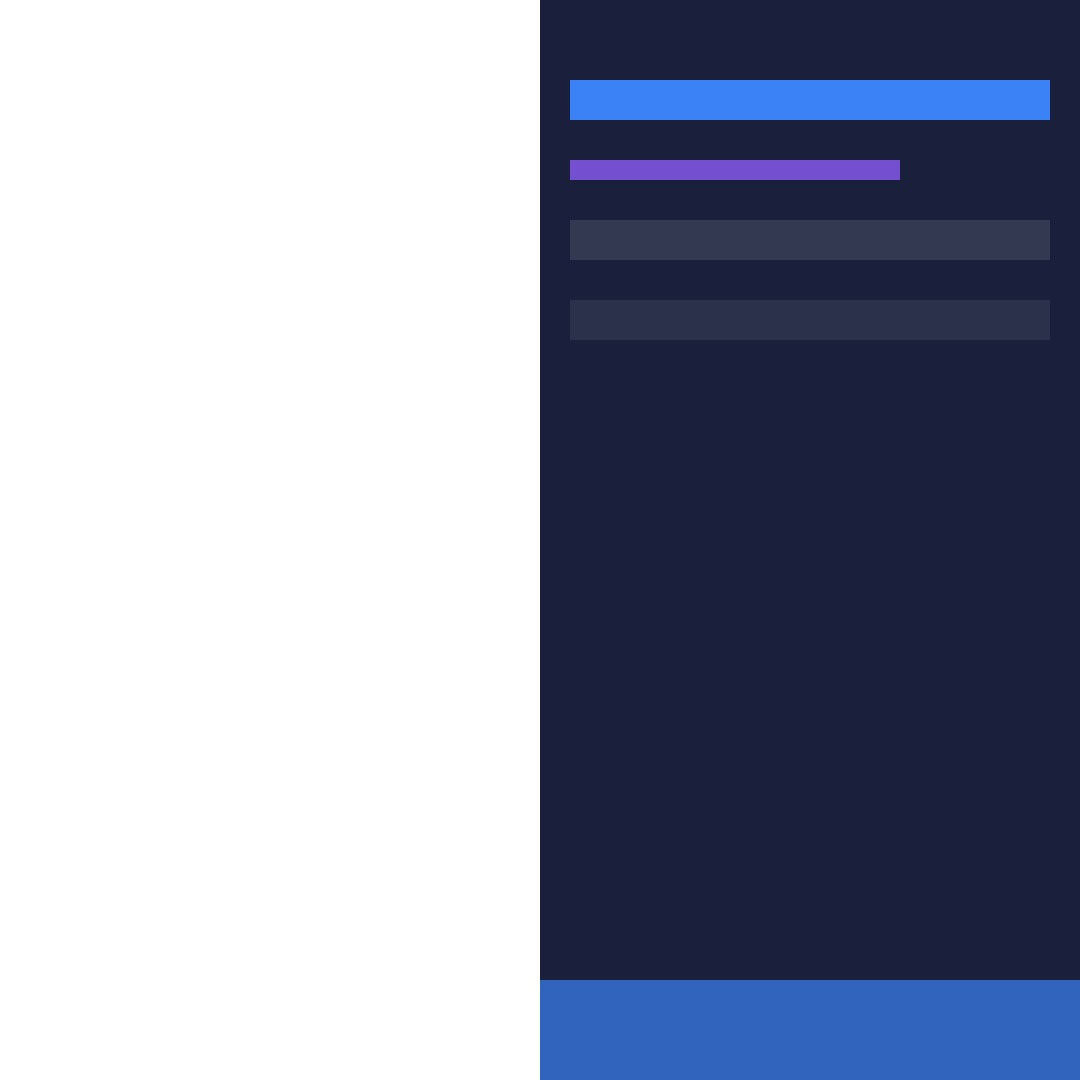
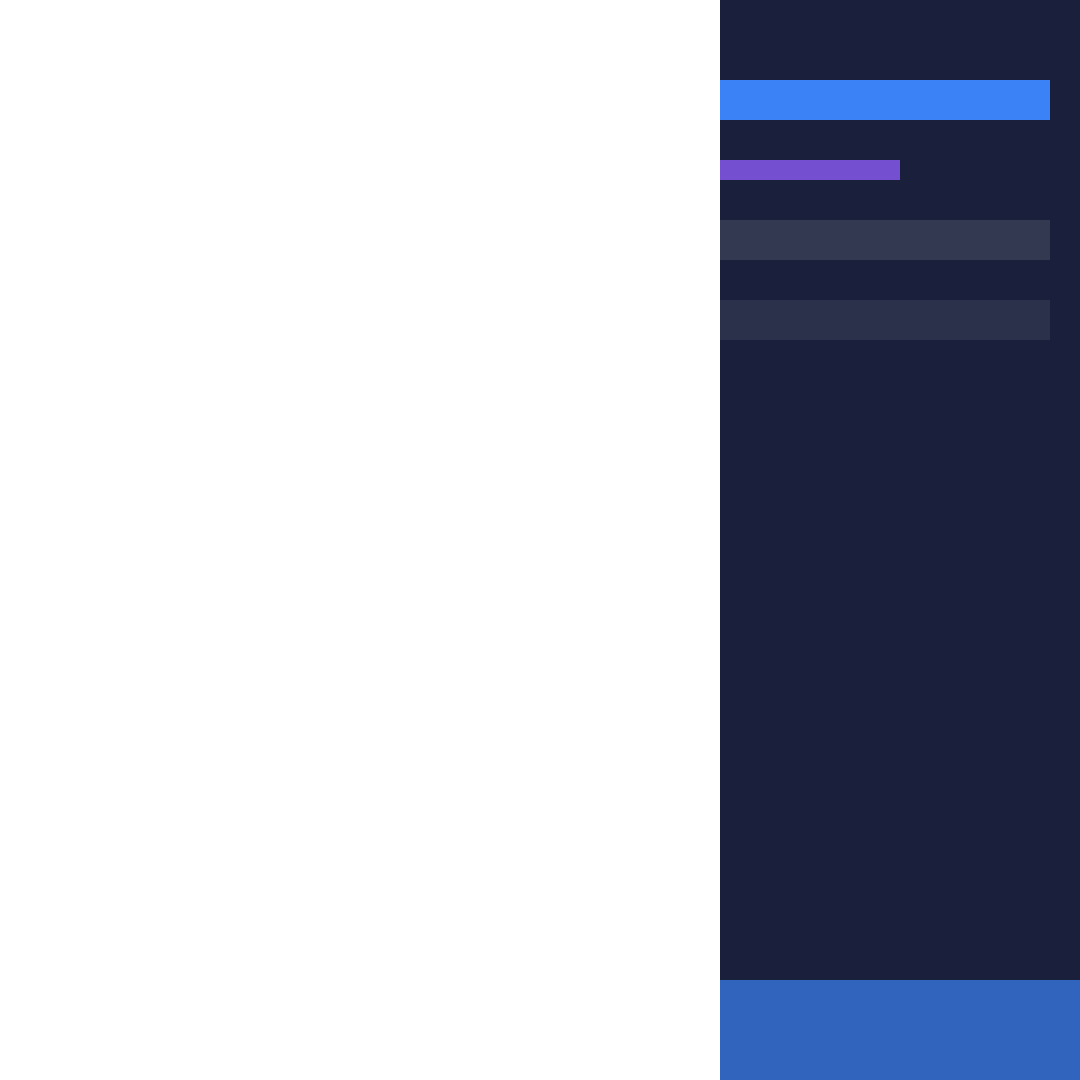
fix: 竖版视频套方版模板无缝填充
- 自动检测模板PNG透明区域边界，视频精确填充到透明区域
- 1:1模板视频区域调整为720×1080匹配实际视频尺寸(720×1080)
- 更新模板图片：透明区720px + 图案区360px = 1080px
- 移除1:1模板的过扫描(overscan)，改用精确缩放避免间隙
- 更新客户端和服务端默认视频区域参数

Changed region(s): [[0.4889, 0.0, 0.6722, 1.0]]

diff --git a/server/src/services/ffmpeg.service.js b/server/src/services/ffmpeg.service.js
@@ -36,6 +36,20 @@ function normalizeTemplateGeometry(template) {
         rawH = 1080;
     }
 
+    // 修复 1:1 模板视频区域：确保视频区域与 720×1080 视频比例匹配
+    // 视频 720×1080 (2:3) + 模板图案 360×1080 = 1080×1080
+    if (type === '1:1') {
+        // 如果视频区域宽度等于画布宽度（1080），说明是未正确设置的遗留数据
+        if (rawW === width) {
+            rawW = 720; // 720×1080 = 2:3
+        }
+        // 确保视频区域高度填满整个画布高度
+        if (rawH < height) {
+            rawY = 0;
+            rawH = height;
+        }
+    }
+
     const videoAreaX = Math.max(0, Math.min(Math.floor(rawX), Math.max(width - 1, 0)));
     const videoAreaY = Math.max(0, Math.min(Math.floor(rawY), Math.max(height - 1, 0)));
     const maxW = Math.max(width - videoAreaX, 1);
@@ -66,6 +80,79 @@ function readImageDimensions(imagePath) {
     const height = Number(h);
     if (!Number.isFinite(width) || !Number.isFinite(height) || width <= 0 || height <= 0) return null;
     return { width, height };
+}
+
+/**
+ * 自动检测模板图片中透明区域的边界（用于精确放置视频）。
+ * 通过提取 alpha 通道，使用 cropdetect 找到不透明（图案）区域，
+ * 然后推算出透明区域的精确范围。
+ *
+ * 假设模板为左右两区结构：
+ *   - 透明区域（视频）在左侧或右侧
+ *   - 不透明区域（图案）在另一侧
+ *   - 两个区域高度都等于画布高度
+ *
+ * @param {string} imagePath - 模板图片路径
+ * @param {number} imgWidth - 图片宽度
+ * @param {number} imgHeight - 图片高度
+ * @returns {{x:number, y:number, width:number, height:number}|null}
+ */
+function detectTransparentArea(imagePath, imgWidth, imgHeight) {
+    try {
+        // 提取 alpha 通道，cropdetect 找到非黑色（即不透明/图案）区域
+        // alpha 通道中: 透明=0x00(黑), 不透明=0xFF(白)
+        // cropdetect 检测非黑色区域，即图案区域
+        const result = spawnSync('ffmpeg', [
+            '-y', '-i', imagePath,
+            '-filter_complex', 'alphaextract,cropdetect=limit=0:round=2:reset=1:skip=0',
+            '-frames:v', '1',
+            '-f', 'null', '-',
+        ], { encoding: 'utf-8', timeout: 10000 });
+
+        if (result.status !== 0 || !result.stderr) return null;
+
+        // 解析 cropdetect 输出: crop=w:h:x:y （这是不透明/图案区域）
+        const match = result.stderr.match(/crop=(\d+):(\d+):(\d+):(\d+)/);
+        if (!match) return null;
+
+        const opaqueW = parseInt(match[1]);
+        const opaqueH = parseInt(match[2]);
+        const opaqueX = parseInt(match[3]);
+        const opaqueY = parseInt(match[4]);
+
+        if (opaqueW <= 0 || opaqueH <= 0) return null;
+
+        console.log(`[Template] 不透明(图案)区域: x=${opaqueX}, y=${opaqueY}, ${opaqueW}×${opaqueH}`);
+
+        // 计算透明区域：图案区域的补集
+        // 对于左右两区结构：
+        let transX, transY, transW, transH;
+
+        if (opaqueX > 0) {
+            // 图案在右侧，透明区域在左侧
+            transX = 0;
+            transY = 0;
+            transW = opaqueX;
+            transH = imgHeight;
+        } else {
+            // 图案在左侧（从 x=0 开始），透明区域在右侧
+            transX = opaqueX + opaqueW;
+            transY = 0;
+            transW = imgWidth - transX;
+            transH = imgHeight;
+        }
+
+        transW = toEven(transW);
+        transH = toEven(transH);
+
+        if (transW <= 0 || transH <= 0) return null;
+
+        console.log(`[Template] 透明(视频)区域: x=${transX}, y=${transY}, ${transW}×${transH} (模板 ${imgWidth}×${imgHeight})`);
+        return { x: transX, y: transY, width: transW, height: transH };
+    } catch (err) {
+        console.warn(`[Template] 透明区域检测失败: ${err.message}`);
+        return null;
+    }
 }
 
 /**
@@ -107,12 +194,33 @@ export function buildFFmpegArgs({ inputVideo, templateImage, outputPath, templat
             `[with_video][template]overlay=0:0:format=auto,setsar=1,setdar=${width}/${height}[outv]`,
         ].join(';');
     } else if (type === '1:1') {
-        // 1:1 改为清晰底图，避免中间还能看到高斯模糊
+        // 1:1 竖版视频套方版模板：
+        // 自动检测模板透明区域，确保视频精确填充到透明区域，与图案部分无缝衔接
+        let vaX = videoAreaX;
+        let vaY = videoAreaY;
+        let vaW = videoAreaWidth;
+        let vaH = videoAreaHeight;
+
+        // 自动检测模板透明区域边界，优先使用实际透明区域尺寸
+        const detected = detectTransparentArea(templateImage, width, height);
+        if (detected) {
+            vaX = detected.x;
+            vaY = detected.y;
+            vaW = detected.width;
+            vaH = detected.height;
+            console.log(`[FFmpeg] 1:1 使用自动检测的透明区域: (${vaX},${vaY}) ${vaW}×${vaH}`);
+        } else {
+            console.log(`[FFmpeg] 1:1 透明区域检测失败，使用数据库值: (${vaX},${vaY}) ${vaW}×${vaH}`);
+        }
+
+        // 不使用过扫描，直接强制缩放视频到精确的透明区域尺寸，确保无缝填充
         filterComplex = [
             `[0:v]scale=trunc(iw*sar/2)*2:trunc(ih/2)*2,setsar=1,split=2[bg_src][video_src]`,
+            // 背景：将视频拉伸填满整个画布（无缝覆盖，避免任何黑色间隙）
             `[bg_src]scale=${width}:${height}:force_original_aspect_ratio=increase,crop=${width}:${height}[bg]`,
-            `[video_src]scale=${osW}:${osH}:force_original_aspect_ratio=increase,crop=${osW}:${osH}[scaled_video]`,
-            `[bg][scaled_video]overlay=${osX}:${osY}:format=auto[with_video]`,
+            // 视频：强制缩放到精确的透明区域尺寸，确保无缝填充
+            `[video_src]scale=${vaW}:${vaH}[scaled_video]`,
+            `[bg][scaled_video]overlay=${vaX}:${vaY}:format=auto[with_video]`,
             `[1:v]scale=${width}:${height}:force_original_aspect_ratio=decrease,pad=${width}:${height}:(ow-iw)/2:(oh-ih)/2:color=black@0,format=rgba[template]`,
             `[with_video][template]overlay=0:0:format=auto,setsar=1,setdar=${width}/${height}[outv]`,
         ].join(';');

diff --git a/client/src/pages/TemplatesPage.jsx b/client/src/pages/TemplatesPage.jsx
@@ -6,7 +6,9 @@ import { useToast } from '../App';
 const API_BASE = import.meta.env.VITE_API_URL || '';
 
 const TYPE_INFO = {
-    '1:1': { label: '1:1 正方形', dims: '1080×1080', defaultVA: { x: 0, y: 0, w: 608, h: 1080 } },
+    // 1:1 模板：视频显示在透明区域，图案在不透明区域
+    // 视频 720×1080 (2:3) + 图案 360×1080 = 1080×1080，实际以模板透明区域为准
+    '1:1': { label: '1:1 正方形', dims: '1080×1080', defaultVA: { x: 0, y: 0, w: 720, h: 1080 } },
     '16:9': { label: '16:9 横版', dims: '1920×1080', defaultVA: { x: 656, y: 0, w: 608, h: 1080 } },
     '9:16': { label: '9:16 覆盖', dims: '1080×1920', defaultVA: { x: 0, y: 0, w: 1080, h: 1920 } },
 };

diff --git a/server/src/controllers/template.controller.js b/server/src/controllers/template.controller.js
@@ -92,7 +92,7 @@ export function createTemplate(req, res) {
 
     const vaX = parseInt(videoAreaX) || 0;
     const vaY = parseInt(videoAreaY) || 0;
-    const vaW = parseInt(videoAreaWidth) || (type === '1:1' ? 608 : type === '16:9' ? 608 : dims.width);
+    const vaW = parseInt(videoAreaWidth) || (type === '1:1' ? 720 : type === '16:9' ? 608 : dims.width);
     const vaH = parseInt(videoAreaHeight) || (type === '9:16' ? dims.height : (type === '1:1' ? 1080 : 1080));
 
     const relativePath = path.relative(config.upload.dir, req.file.path);
